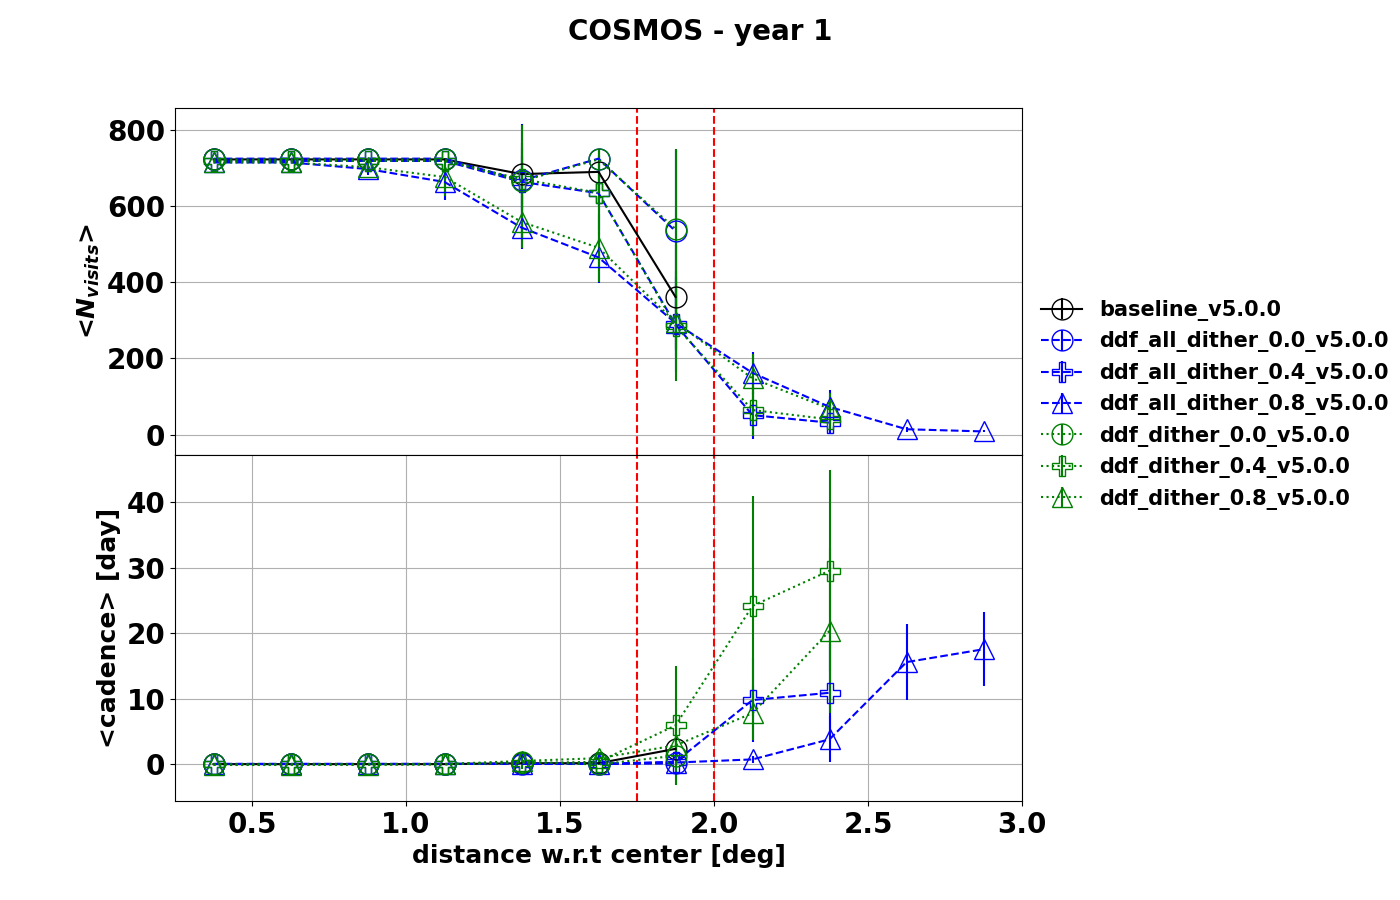
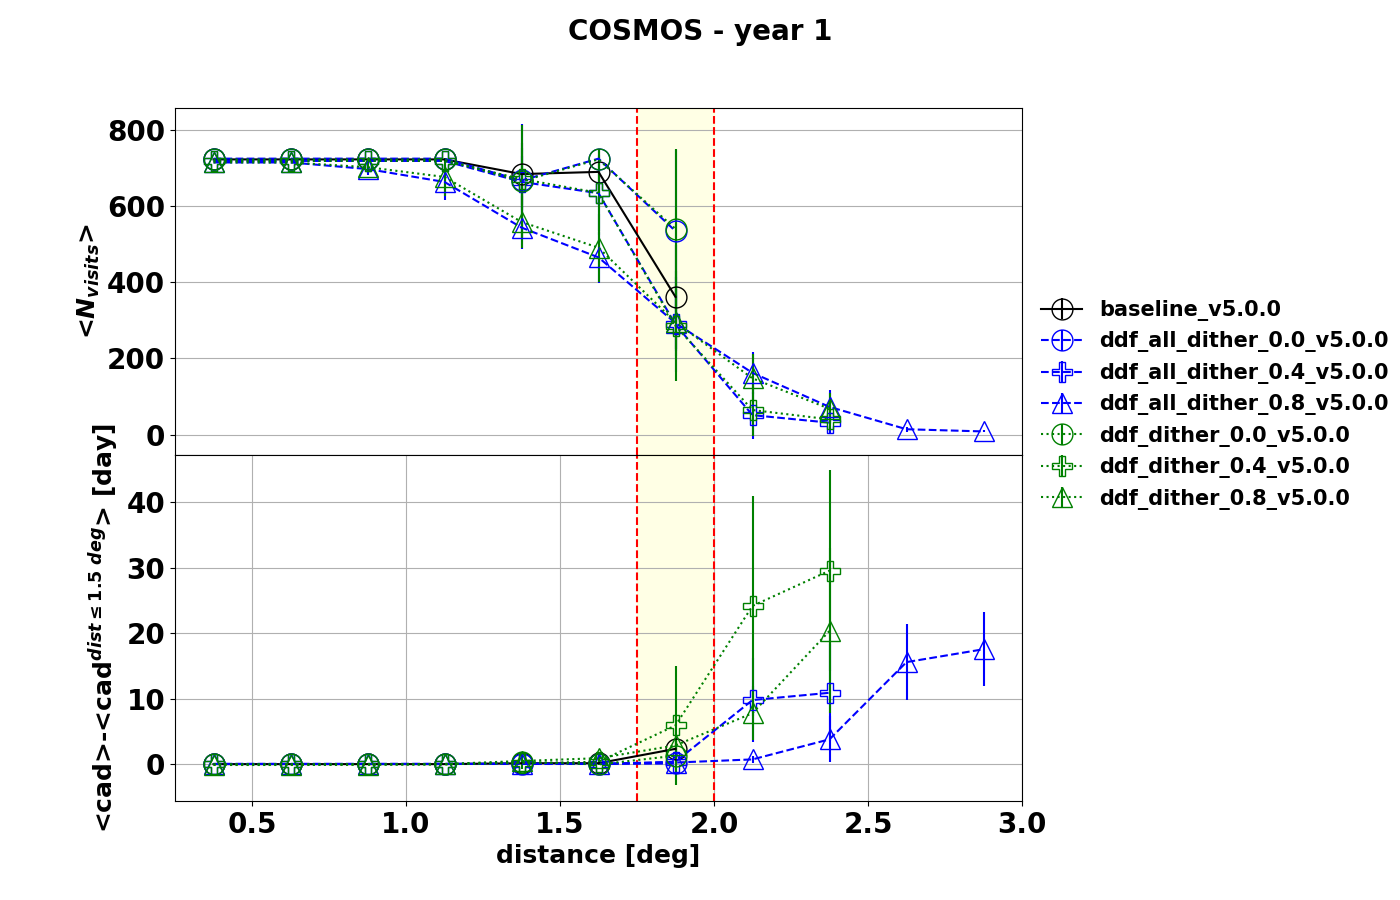
update

Changed region(s): [[0.43, 0.0933, 0.5221, 0.9022], [0.0614, 0.4667, 0.0921, 0.9022], [0.2764, 0.9333, 0.5836, 0.9644]]

diff --git a/plot_scripts/os_info/plot_dd_radius.py b/plot_scripts/os_info/plot_dd_radius.py
@@ -72,12 +72,14 @@ def plot_radius(data, df_config, year=1, field='COSMOS'):
         ymin, ymax = ax[i].get_ylim()
         ax[i].plot([1.75]*2, [ymin, ymax], linestyle='dashed', color='r')
         ax[i].plot([2.0]*2, [ymin, ymax], linestyle='dashed', color='r')
+        ax[i].fill_between([1.75, 2.0], [ymin]*2, [ymax]
+                           * 2, color='yellow', alpha=0.1)
         ax[i].set_ylim([ymin, ymax])
         ax[i].grid()
 
-    ax[1].set_xlabel(r'distance w.r.t center [deg]')
+    ax[1].set_xlabel(r'distance [deg]')
     ax[0].set_ylabel(r'<$N_{visits}$>')
-    ax[1].set_ylabel(r'<cadence> [day]')
+    ax[1].set_ylabel(r'<cad>-<cad$^{dist\leq 1.5~ deg}$> [day]')
     ax[0].get_xaxis().set_visible(False)
 
 
